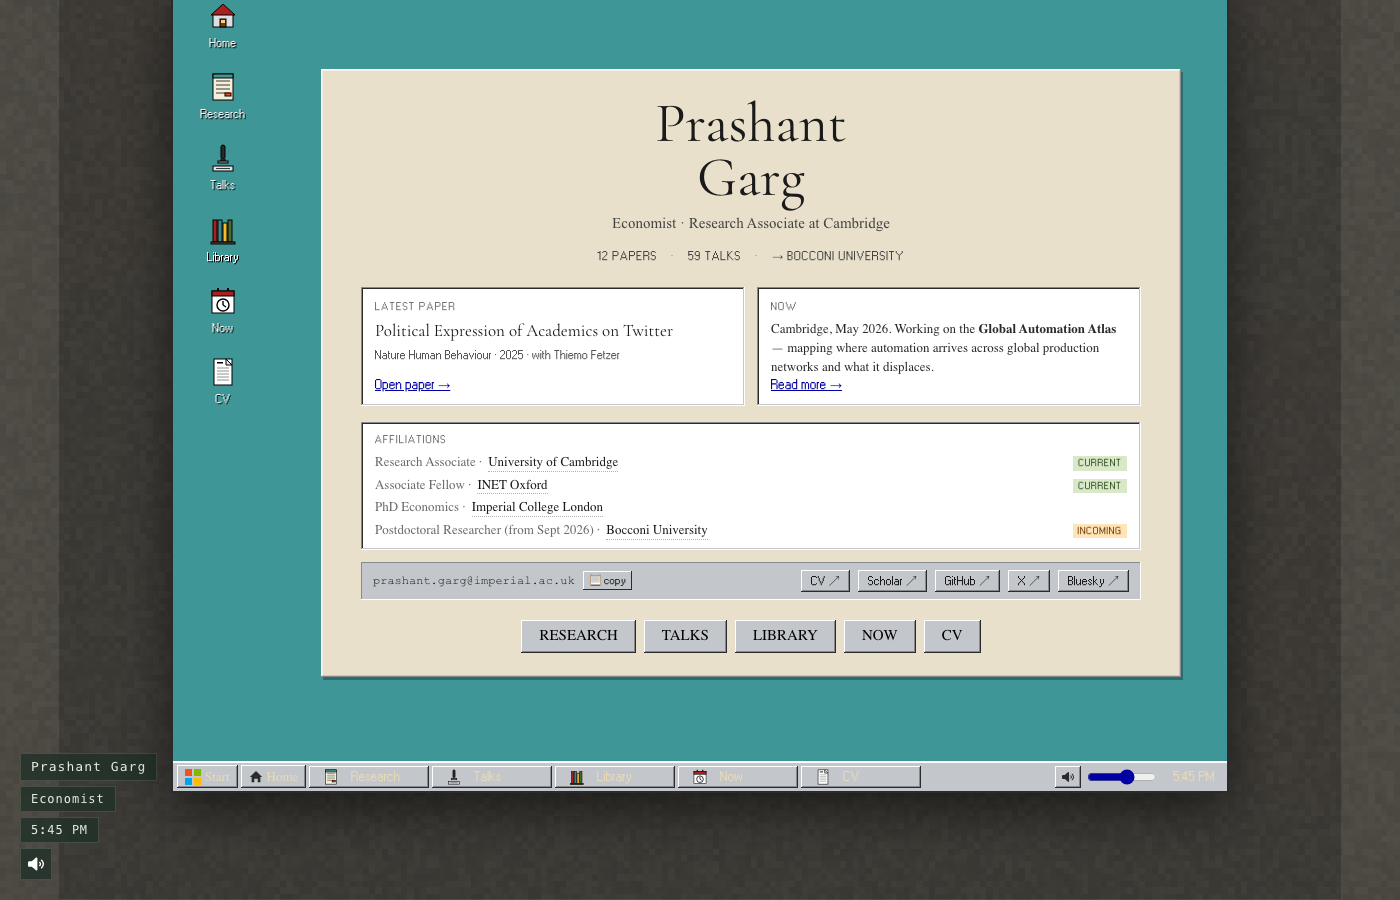
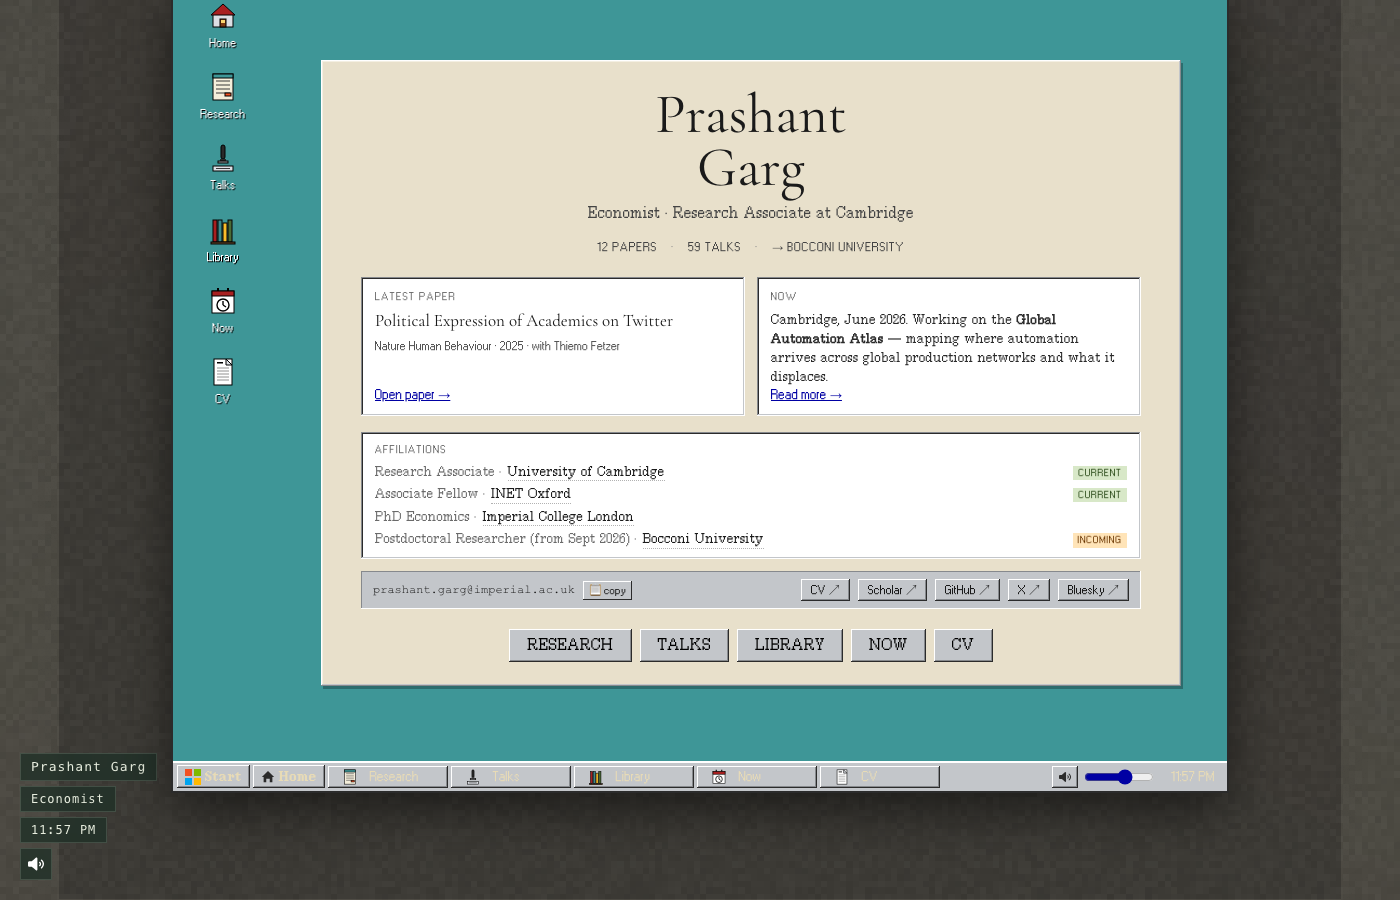
Site-wide audit fixes: mobile desktop full-screen, no-WebGL fallback, print force-light, stale dates, dead links
Findings from a full audit (38 page renders, 118 external links, SEO/
feeds, a11y, mobile journey, payload):

- MOBILE: the embedded Win95 desktop used the raw CRT projection rect,
  which is wider than a portrait viewport — clipped on both edges. Now
  full-screen below 700px (windows already maximize there); boot overlay
  clamped to the viewport; home panel collapses to one column with a
  smaller masthead. Verified iPhone-13 emulation: desktop rect = 390x664,
  0 overflow.
- NO-WEBGL: users were stranded at 'click the monitor' with no monitor.
  Now a terminal-styled fallback lists Research/Talks/Library/Now/CV.
- PRINT: dark theme leaked into CV print (dark-on-dark). Print CSS now
  forces white backgrounds + black text. Verified: cv-page bg
  rgb(255,255,255) with dark theme active.
- COPY: welcome note says Tap (not Click) on touch devices.
- DATES: 'May 2026' -> 'June 2026' (now.astro x2, desktop Now card).
- LINKS: 3 dead event URLs dropped (lsequeerconf.com unresolvable,
  lse-environment-week + eaye.info 404); causal.claims http->https.
  Bot-403s (FT/Economist/CEPR/etc) verified as bot-blocking, kept.
- Audit harness committed: scripts/review-audit.mjs (per-page renders,
  console errors, overflow) + shots/audit0610 evidence.

Desktop flow regression after fixes: 18 steps, ERRORS: none.

diff --git a/src/data/site.ts b/src/data/site.ts
@@ -139,7 +139,7 @@ export const papers: Paper[] = [
       "As economics scales, a key bottleneck is representing what papers claim in a comparable, aggregable form. We introduce evidence-annotated claim graphs that map each paper into a directed network of standardized economic concepts (nodes) and stated relationships (edges), with each edge labeled by evidentiary basis, including whether it is supported by causal inference designs or by non-causal evidence. Using a structured multi-stage AI workflow, we construct claim graphs for 44,852 economics papers from 1980–2023. The share of causal edges rises from 7.7% in 1990 to 31.7% in 2020. Measures of causal narrative structure and causal novelty are positively associated with top-five publication and long-run citations, whereas non-causal counterparts are weakly related or negative.",
     links: [
       { label: 'Paper', url: 'https://arxiv.org/abs/2501.06873' },
-      { label: 'Project site', url: 'http://www.causal.claims' },
+      { label: 'Project site', url: 'https://www.causal.claims' },
       { label: 'Open data', url: 'https://drive.google.com/drive/folders/1JY3OpICSjvaG__6pJYcEtdovuN_t5-Ba?usp=drive_link' },
       { label: 'GitHub', url: 'https://github.com/prashgarg/CausalClaimsInEconomics' },
       { label: 'VoxEU summary', url: 'https://cepr.org/voxeu/columns/causal-claims-economics' },
@@ -371,18 +371,18 @@ export const talks: Talk[] = [
   { year: 2025, title: 'Cross-Border Enforcement and Product Innovation', venue: 'Imperial Economics Seminar', location: 'London', date: '9 Oct 2025', url: 'https://www.imperial.ac.uk/business-school/faculty-research/academic-areas/economics-public-policy/' },
   { year: 2025, title: 'Chatting About Innovation', venue: 'LSE POID/PRINZ Seminar', location: 'London', date: '30 Sep 2025', url: 'https://poid.lse.ac.uk/events/prinz-seminars.asp' },
   { year: 2025, title: 'Conspiratorial Thinking', venue: 'MPWZ–CEPR Text-as-Data', location: 'Virtual', date: '15–16 Sep 2025', url: 'https://cepr.org/events/10th-monash-paris-warwick-zurich-cepr-text-data-workshop' },
-  { year: 2025, title: 'Geography of Medical Knowledge', venue: 'LSE QueerConf', location: 'London', date: '15 Aug 2025', url: 'https://www.lsequeerconf.com/home' },
+  { year: 2025, title: 'Geography of Medical Knowledge', venue: 'LSE QueerConf', location: 'London', date: '15 Aug 2025' },
   { year: 2025, title: 'Retrieving and Generating Data using LLMs', venue: 'Public Governance Workshop, PSL', location: 'Virtual', date: '7 Jul 2025', url: 'https://acss-dig.psl.eu/fr/seminaires/public-governance' },
   { year: 2025, title: 'AI-Generated Production Networks', venue: 'RES Annual Conference', location: 'Birmingham', date: '1–2 Jul 2025', url: 'https://res.org.uk/event-listing/res-2025-annual-conference/' },
   { year: 2025, title: 'Causal Claims in Economics', venue: 'Metascience 2025', location: 'London', date: '30 Jun 2025', url: 'https://metascience.info/' },
   { year: 2025, title: 'Cross-Border Enforcement and Product Innovation', venue: 'Imperial Economics Seminar', location: 'London', date: '19 Jun 2025', url: 'https://www.imperial.ac.uk/business-school/faculty-research/academic-areas/economics-public-policy/' },
   { year: 2025, title: 'Political Expression of Academics on Twitter', venue: 'Text as Data in Behavioural Economics', location: 'Potsdam', date: '10–11 Jun 2025', url: 'https://sites.google.com/view/text-as-data-workshop/home' },
   { year: 2025, title: 'Causal Claims in Economics', venue: 'Networks in Science of Science', location: 'Maastricht', date: '2–6 Jun 2025', url: 'https://netscisci.github.io/papers' },
-  { year: 2025, title: 'Causal Claims in Economics', venue: 'EAYE Annual Meeting', location: 'London', date: '29–31 May 2025', url: 'https://www.eaye.info/eayeam/2025-edition' },
+  { year: 2025, title: 'Causal Claims in Economics', venue: 'EAYE Annual Meeting', location: 'London', date: '29–31 May 2025' },
   { year: 2025, title: 'AI-Generated Production Networks · LLMs Workshop', venue: 'University of Groningen', location: 'Groningen', date: '27 May 2025', url: 'https://www.rug.nl/bachelors/economics-and-business-economics/?lang=en' },
   { year: 2025, title: 'Causal ML & Text-as-Data Roundtable', venue: 'AYEW', location: 'Virtual', date: '21 May 2025', url: 'https://www.monash.edu/business/impact-labs/soda-labs/our-events/applied-young-economists' },
   { year: 2025, title: 'Causal Claims in Economics', venue: 'ZBW Seminar', location: 'Hamburg', date: '20 May 2025', url: 'https://www.zbw.eu/en/' },
-  { year: 2025, title: 'Network Determinants of Cross-Border Media Coverage of Natural Disasters', venue: 'LSE–IGC Environmental Populism Conference', location: 'London', date: '15–16 May 2025', url: 'https://www.lse-environment-week.com/env-pop-conf' },
+  { year: 2025, title: 'Network Determinants of Cross-Border Media Coverage of Natural Disasters', venue: 'LSE–IGC Environmental Populism Conference', location: 'London', date: '15–16 May 2025' },
   { year: 2025, title: 'Network Determinants of Cross-Border Media Coverage of Natural Disasters', venue: 'Economics of Media Bias Workshop', location: 'Frankfurt', date: '8–9 May 2025', url: 'https://mediabiasworkshop.org/event/8th-economics-of-media-bias-workshop/' },
   { year: 2025, title: 'Retrieving and Generating Data using LLMs in Python', venue: 'Workshop for Ukraine (charity)', location: 'Virtual', date: '8 May 2025', url: 'https://sites.google.com/view/dariia-mykhailyshyna/main/r-workshops-for-ukraine' },
   { year: 2025, title: 'Causal Claims in Economics', venue: 'MPWZ–CEPR Text-as-Data', location: 'Virtual', date: '28–29 Apr 2025', url: 'https://cepr.org/events/9th-monash-paris-warwick-zurich-cepr-text-data-workshop' },

diff --git a/src/components/Office.tsx b/src/components/Office.tsx
@@ -2858,10 +2858,12 @@ function BootOverlay({ onDone }: { onDone: () => void }) {
         // Use the live CRT screen projection (set by CrtScreenProjector
         // every frame). Fallbacks keep the overlay sensible if the
         // projector hasn't written the vars yet.
-        top:    'var(--crt-top,  50%)' as any,
-        left:   'var(--crt-left, 50%)' as any,
-        width:  'var(--crt-w,    min(66vw, 880px))' as any,
-        height: 'var(--crt-h,    min(78vh, 670px))' as any,
+        // clamped to the viewport — on portrait phones the CRT projection
+        // is wider than the screen and the un-clamped box ran off-edge.
+        top:    'max(var(--crt-top,  50%), 0px)' as any,
+        left:   'max(var(--crt-left, 50%), 0px)' as any,
+        width:  'min(var(--crt-w,    min(66vw, 880px)), calc(100vw - max(var(--crt-left, 0px), 0px)))' as any,
+        height: 'min(var(--crt-h,    min(78vh, 670px)), calc(100dvh - max(var(--crt-top, 0px), 0px)))' as any,
         zIndex: 9999,
         background: '#0E0D0B', color: '#A4D9C5',
         // subtle CRT scanlines for the boot terminal background
@@ -3229,10 +3231,10 @@ function FirstVisitWelcome() {
         WELCOME
       </div>
       <div style={{ marginBottom: 6 }}>
-        Welcome to the workstation. Click the monitor to step inside and open the desktop. The objects on the desk respond to you.
+        Welcome to the workstation. {typeof window !== 'undefined' && window.matchMedia('(hover: none)').matches ? 'Tap' : 'Click'} the monitor to step inside and open the desktop. The objects on the desk respond to you.
       </div>
       <div style={{ fontSize: 10, opacity: 0.55, marginTop: 8, textAlign: 'right' }}>
-        click to dismiss
+        {typeof window !== 'undefined' && window.matchMedia('(hover: none)').matches ? 'tap' : 'click'} to dismiss
       </div>
       <style>{`@keyframes pg-welcome-in { from { opacity: 0; transform: translateY(-6px); } to { opacity: 1; transform: translateY(0); } }`}</style>
     </div>
@@ -3285,6 +3287,17 @@ export default function Office() {
   const [isTouch, setIsTouch] = useState(false);
   useEffect(() => { setIsTouch(window.matchMedia('(hover: none) and (pointer: coarse)').matches); }, []);
 
+  // WebGL probe — without it the 3D room can never render and the user
+  // would be stranded at "click the monitor" with no monitor. Render a
+  // plain-links fallback instead. (SSR assumes true; probed on mount.)
+  const [webglOk, setWebglOk] = useState(true);
+  useEffect(() => {
+    try {
+      const c = document.createElement('canvas');
+      setWebglOk(!!(c.getContext('webgl2') || c.getContext('webgl')));
+    } catch { setWebglOk(false); }
+  }, []);
+
   const handleEntryDone    = () => setPhase('idle');
   const handleClick        = () => { if (phase === 'idle') setPhase('dollying'); };
   const handleArrived      = () => setPhase('booting');
@@ -3304,6 +3317,33 @@ export default function Office() {
   // audio plays during every visible phase — the 3D room stays on screen
   // even when the embedded InnerDesktop is open, so music continues
   const audioActive = phase !== 'splash';
+
+  // No WebGL → terminal-styled fallback with direct links. Same register
+  // as the BIOS so it doesn't feel like an error page.
+  if (!webglOk) {
+    return (
+      <div style={{
+        position: 'fixed', inset: 0, background: '#0E0D0B', color: '#A4D9C5',
+        fontFamily: "ui-monospace,'SF Mono',Menlo,Monaco,Consolas,monospace",
+        display: 'flex', alignItems: 'center', justifyContent: 'center', padding: 24,
+      }}>
+        <div style={{ maxWidth: 560 }}>
+          <div style={{ fontSize: 13, lineHeight: 1.7 }}>
+            <div style={{ opacity: 0.55, marginBottom: 12 }}>prashantgarg.org</div>
+            <div style={{ marginBottom: 16 }}>
+              &gt; 3D workstation unavailable on this device (no WebGL).<br />
+              &gt; Browse directly:
+            </div>
+            {[['Research', '/research'], ['Talks', '/talks'], ['Library', '/library'], ['Now', '/now'], ['CV', '/cv']].map(([label, href]) => (
+              <div key={href} style={{ marginBottom: 6 }}>
+                &gt;&nbsp;<a href={href} style={{ color: '#E8EEDF', textDecoration: 'underline' }}>{label}</a>
+              </div>
+            ))}
+          </div>
+        </div>
+      </div>
+    );
+  }
 
   return (
     <div style={{ position: 'fixed', inset: 0, background: '#C8CAC4' }}>

diff --git a/src/components/InnerDesktop.tsx b/src/components/InnerDesktop.tsx
@@ -66,6 +66,18 @@ const WIN95_STYLE = `
   /* fade-in when boot completes and InnerDesktop mounts */
   animation: w95-fadein 0.55s cubic-bezier(0.16, 1, 0.3, 1) both;
 }
+/* PHONES: the CRT projection is wider than a portrait viewport (the
+   monitor camera frames landscape), which clipped the desktop on both
+   edges. Below 700px the embedded desktop goes FULL-SCREEN — windows
+   already open maximized there, so this is the native phone UX. */
+@media (max-width: 700px) {
+  .win95-desktop.embedded {
+    top: 0; left: 0;
+    width: 100vw;
+    height: 100dvh;
+    box-shadow: none;
+  }
+}
 @keyframes w95-fadein {
   0%   { opacity: 0; }
   100% { opacity: 1; }
@@ -635,6 +647,11 @@ const WIN95_STYLE = `
 }
 @media (max-width: 700px) {
   .win95-desktop-home { left: 104px; right: 8px; }
+  /* collapse the two-card grid + shrink the masthead so the panel reads
+     cleanly in the ~280px column beside the icons */
+  .win95-desktop-home .win95-home { padding: 16px 14px 14px; }
+  .win95-desktop-home .win95-home-name { font-size: 34px; }
+  .win95-desktop-home .win95-home-grid { grid-template-columns: 1fr; }
 }
 .win95-icon {
   display: flex;
@@ -2068,7 +2085,7 @@ function HomeContent({ openApp }: { openApp: (id: AppId, fp?: { x: number; y: nu
         <div className="win95-card">
           <div className="win95-card-label">Now</div>
           <div className="win95-card-text">
-            Cambridge, May 2026. Working on the <strong>Global Automation Atlas</strong> — mapping where automation arrives across global production networks and what it displaces.
+            Cambridge, June 2026. Working on the <strong>Global Automation Atlas</strong> — mapping where automation arrives across global production networks and what it displaces.
           </div>
           <a
             className="win95-card-link"
